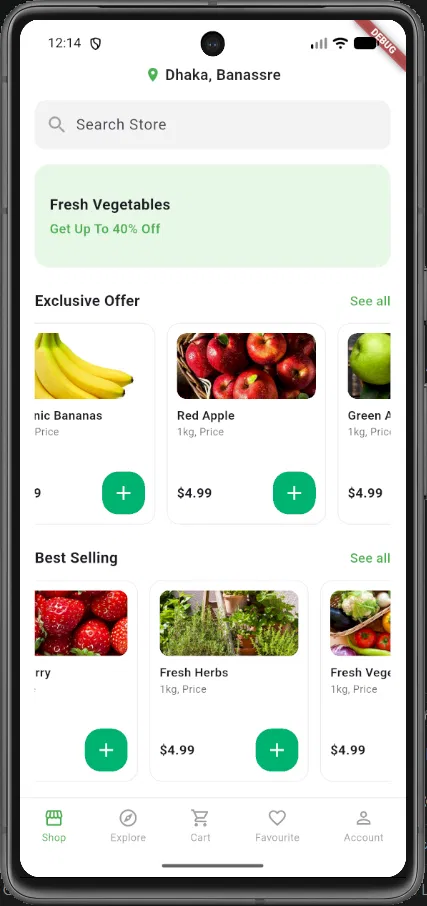
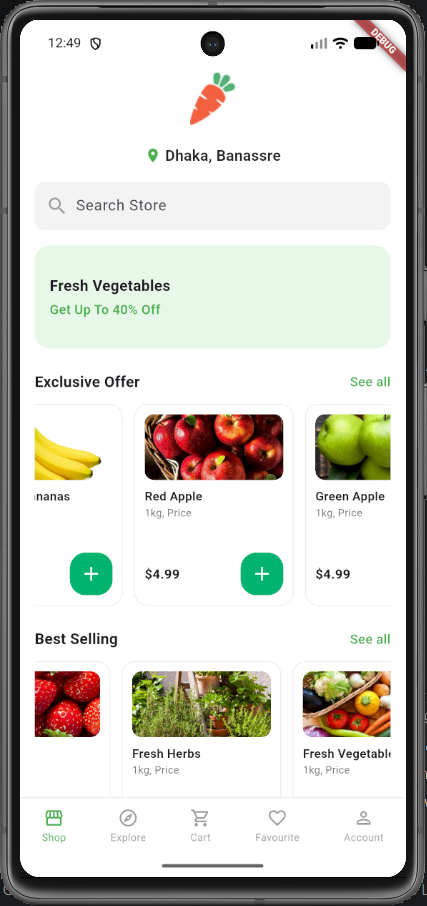
last commit

diff --git a/lib/grocery_app.dart b/lib/grocery_app.dart
@@ -19,7 +19,7 @@ class GroceryApp extends StatelessWidget {
   @override
   Widget build(BuildContext context) {
     return MaterialApp(
-      home : OnboardingScreen(),
+      home : HomeScreen(),
     );
     
 }
